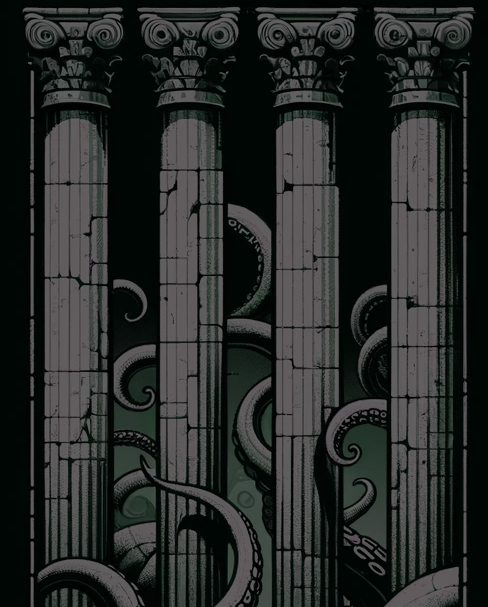
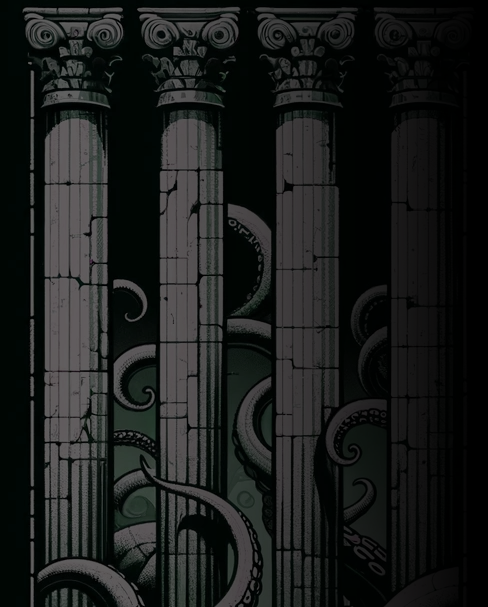
pretty it up a bit

Changed region(s): [[0.4918, 0.0, 0.9836, 1.0]]

diff --git a/style.css b/style.css
@@ -19,24 +19,26 @@ body, html {
     background-image: url('images/theros\ theme\ 4_v2.png');
     background-size: cover;
     background-repeat: no-repeat;
-    background-position: center;
+    background-position: right;
 }
 #quest-detail-pane {
-    background-color: #0a0b0a;
+    background-color: #000000;
 }
 .quest-item {
     display: flex;
     font-size: 1.4em;
     align-items: center;
-    padding: 10px;
-    margin: 5px 0;
-    background-color: #b9b9b9;
-    opacity: 0.9;
+    padding: 11px;
+    margin: 15px 0;
+    background: linear-gradient(to bottom, transparent, #a97b59);
+    opacity: 0.6;
     cursor: pointer;
     font-family: 'Almendra', sans-serif;
+    border-radius: 5px 10px 10px 5px;
+    color: white;
 }
 .quest-item:hover {
-    background-color: #ccc;
+    opacity: 1.0;
 }
 .status {
     margin-left: 10px;
@@ -66,10 +68,10 @@ body, html {
 /* Quest detail styling */
 .quest-detail {
     padding: 10px;
-    border: 1px solid #253926;
     margin-top: 10px;
     color: white;
-}
+    border-radius: 10px 5px 15px 20px;}
+
 
 .quest-detail ul {
     list-style-type: none; /* Removes the bullet points */
